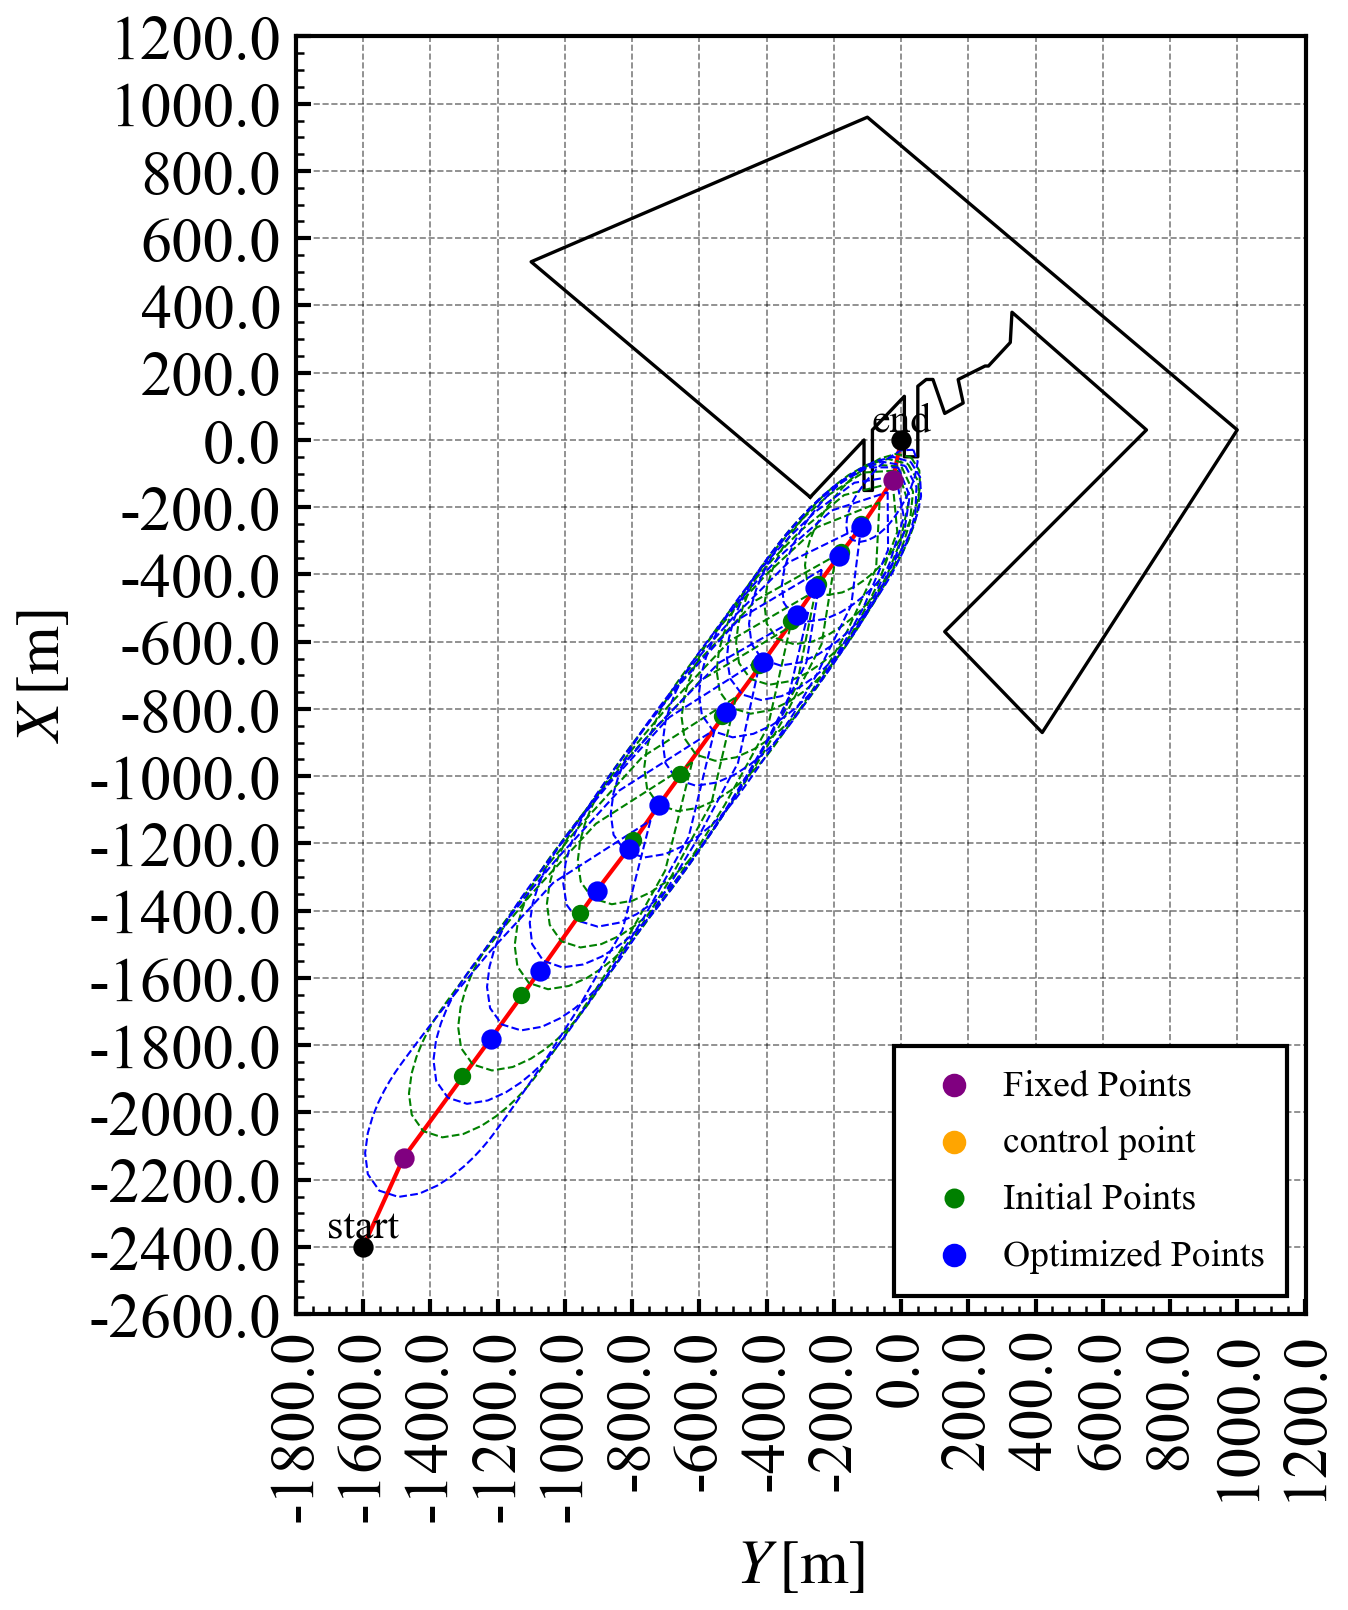
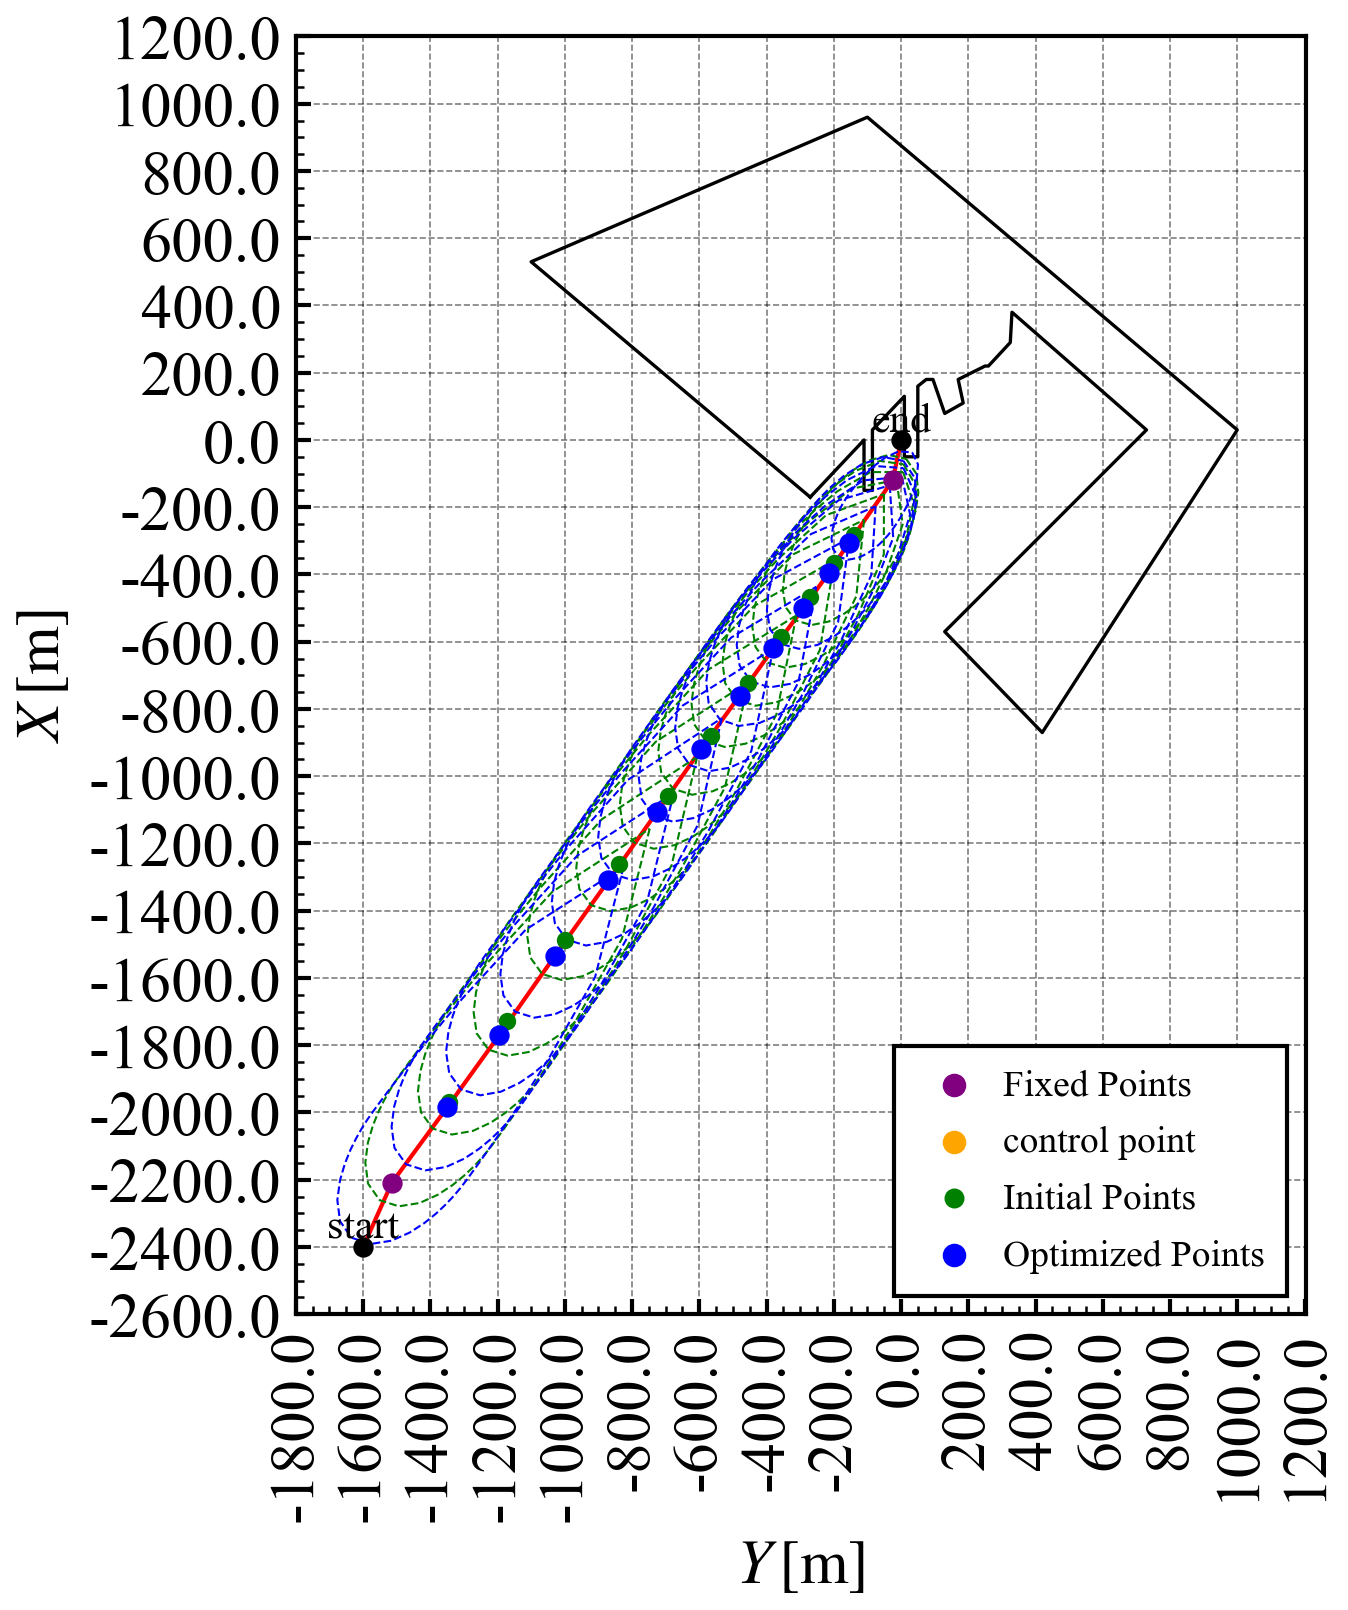
接触判定変えたらいいじ

Changed region(s): [[0.2493, 0.2795, 0.6855, 0.7764]]

diff --git a/program/path_planning/CMA-ES.py b/program/path_planning/CMA-ES.py
@@ -21,6 +21,7 @@ from matplotlib import gridspec
 from matplotlib.offsetbox import OffsetImage, AnnotationBbox
 import pandas as pd
 from scipy import ndimage
+from scipy.spatial import ConvexHull
 from tqdm.auto import tqdm
 
 # --- external project modules ---
@@ -63,12 +64,13 @@ class ParamMode(StrEnum):
 class InitPathAlgo(StrEnum):
     ASTAR = "astar"
     BEZIER = "bezier"
+    STRAIGHT = "straight"
 
 
 class Settings:
     def __init__(self):
         # port
-        self.port_number: int = 2
+        self.port_number: int = 10
          # 0: Osaka_1A, 1: Tokyo_2C, 2: Yokkaichi_2B, 3: Else_1, 4: Osaka_1B
          # 5: Else_2, 6: Kashima, 7: Aomori, 8: Hachinohe, 9: Shimizu
          # 10: Tomakomai, 11: KIX
@@ -229,22 +231,28 @@ class CostCalculator:
     def ShipDomain(self, parent_pt, current_pt, child_pt):
         sm = self.sample_map
         SD = self.SD
-        enclosing = self.enclosing
-        obstacles = enclosing.obstacle_polygons[0]
 
         parent_pt  = np.asarray(parent_pt, dtype=float)
         current_pt = np.asarray(current_pt, dtype=float)
         child_pt   = np.asarray(child_pt, dtype=float)
 
+        theta_list = np.arange(np.deg2rad(0), np.deg2rad(360), np.deg2rad(10))
         psi = cal_psi(parent_pt, current_pt, child_pt)
         speed = cal_speed(current_pt, sm)
-        for obstacle in obstacles:
-            v = obstacle - current_pt
-            dist = np.linalg.norm(v)
-            theta = np.pi/2 - np.arctan2(v[1], v[0])
-            theta = (theta + np.pi) % (2*np.pi) - np.pi # nomalize
-            rel = (theta - psi + np.pi) % (2*np.pi) - np.pi
-            D = SD.distance(speed, rel)
+        r_list = []
+        for theta_i in theta_list:
+            r_list.append(SD.distance(speed, theta_i))
+
+        r = np.asarray(r_list, dtype=float)
+        domain_xy = np.column_stack([
+            current_pt[0] + r * np.cos(theta_list + psi),
+            current_pt[1] + r * np.sin(theta_list + psi),
+        ])
+        domain_xy.tolist()
+        mask = in_hull_2d(points=sm.obstacle,hull_points=domain_xy)
+        inner_obstacle = sm.obstacle[mask]
+
+        return len(inner_obstacle)
 
 
     def elem(self, parent_pt: np.ndarray, current_pt: np.ndarray, child_pt: np.ndarray) -> float:
@@ -496,6 +504,30 @@ def calculate_turning_points(initial_coords: np.ndarray, sample_map, last_pt: np
             break
     return turning_points
 
+def in_hull_2d(points, hull_points, tol=1e-12, include_boundary=True):
+    """
+    points: (M,2) 判定したい点群
+    hull_points: (N,2) 凸包を作る点群
+    tol: 数値誤差許容
+    include_boundary: 境界上を内側扱いにするか
+    """
+    points = np.asarray(points, dtype=float)
+    hull_points = np.asarray(hull_points, dtype=float)
+
+    hull = ConvexHull(hull_points)
+
+    # equations: shape (F, 3) where [a, b, c] s.t. a*x + b*y + c <= 0 is inside
+    A = hull.equations[:, :2]   # (F,2)
+    b = hull.equations[:, 2]    # (F,)
+
+    vals = A @ points.T + b[:, None]   # (F,M)
+
+    if include_boundary:
+        return np.all(vals <= tol, axis=0)
+    else:
+        return np.all(vals < -tol, axis=0)
+
+
 
 
 class PathPlanning:
@@ -692,19 +724,27 @@ class PathPlanning:
 
         # SD (checkpoint + midpoint)
         SD_cost = 0.0
-        if len(pts) >= 2:
-            SD_cost += cal.SD_checkpoint(origin, pts[0], pts[1])
-            SD_cost += cal.SD_checkpoint(pts[-2], pts[-1], last)
-        elif len(pts) == 1:
-            SD_cost += cal.SD_checkpoint(origin, pts[0], last)
-        for j in range(1, len(pts) - 1):
-            SD_cost += cal.SD_checkpoint(pts[j - 1], pts[j], pts[j + 1])
+        # if len(pts) >= 2:
+        #     SD_cost += cal.SD_checkpoint(origin, pts[0], pts[1])
+        #     SD_cost += cal.SD_checkpoint(pts[-2], pts[-1], last)
+        # elif len(pts) == 1:
+        #     SD_cost += cal.SD_checkpoint(origin, pts[0], last)
+        # for j in range(1, len(pts) - 1):
+        #     SD_cost += cal.SD_checkpoint(pts[j - 1], pts[j], pts[j + 1])
 
-        SD_cost += cal.SD_midpoint(origin, pts[0]) if len(pts) >= 1 else cal.SD_midpoint(origin, last)
-        if len(pts) >= 1:
-            SD_cost += cal.SD_midpoint(pts[-1], last)
-        for j in range(len(pts) - 1):
-            SD_cost += cal.SD_midpoint(pts[j], pts[j + 1])
+        # SD_cost += cal.SD_midpoint(origin, pts[0]) if len(pts) >= 1 else cal.SD_midpoint(origin, last)
+        # if len(pts) >= 1:
+        #     SD_cost += cal.SD_midpoint(pts[-1], last)
+        # for j in range(len(pts) - 1):
+        #     SD_cost += cal.SD_midpoint(pts[j], pts[j + 1])
+
+        SD_cost += cal.ShipDomain(origin, pts[0], pts[1])
+        SD_cost += cal.ShipDomain(origin, (origin + pts[0]) / 2, pts[0])
+        for j in range(1, len(pts) - 1):
+            SD_cost += cal.ShipDomain(pts[j - 1], pts[j], pts[j + 1])
+            SD_cost += cal.ShipDomain(pts[j], (pts[j] + pts[j + 1]) / 2, pts[j + 1])
+        SD_cost += cal.ShipDomain(pts[-2], pts[-1], last)
+        SD_cost += cal.ShipDomain(pts[-1], (pts[-1] + last)/ 2, last)
 
         # element (legacy end-side weights)
         elem_cost = 0.0
@@ -791,21 +831,30 @@ class PathPlanning:
 
             # SD
             SD_cost = 0.0
-            if len(pts) >= 2:
-                SD_cost += cal.SD_checkpoint(origin, pts[0], pts[1])
-                SD_cost += cal.SD_checkpoint(pts[-2], pts[-1], last)
-            elif len(pts) == 1:
-                SD_cost += cal.SD_checkpoint(origin, pts[0], last)
-            for j in range(1, len(pts) - 1):
-                SD_cost += cal.SD_checkpoint(pts[j - 1], pts[j], pts[j + 1])
+            # if len(pts) >= 2:
+            #     SD_cost += cal.SD_checkpoint(origin, pts[0], pts[1])
+            #     SD_cost += cal.SD_checkpoint(pts[-2], pts[-1], last)
+            # elif len(pts) == 1:
+            #     SD_cost += cal.SD_checkpoint(origin, pts[0], last)
+            # for j in range(1, len(pts) - 1):
+            #     SD_cost += cal.SD_checkpoint(pts[j - 1], pts[j], pts[j + 1])
 
-            if len(pts) >= 1:
-                SD_cost += cal.SD_midpoint(origin, pts[0])
-                SD_cost += cal.SD_midpoint(pts[-1], last)
-            else:
-                SD_cost += cal.SD_midpoint(origin, last)
-            for j in range(len(pts) - 1):
-                SD_cost += cal.SD_midpoint(pts[j], pts[j + 1])
+            # if len(pts) >= 1:
+            #     SD_cost += cal.SD_midpoint(origin, pts[0])
+            #     SD_cost += cal.SD_midpoint(pts[-1], last)
+            # else:
+            #     SD_cost += cal.SD_midpoint(origin, last)
+            # for j in range(len(pts) - 1):
+            #     SD_cost += cal.SD_midpoint(pts[j], pts[j + 1])
+
+            
+            SD_cost += cal.ShipDomain(origin, pts[0], pts[1])
+            SD_cost += cal.ShipDomain(origin, (origin + pts[0]) / 2, pts[0])
+            for j in range(1, len(pts) - 1):
+                SD_cost += cal.ShipDomain(pts[j - 1], pts[j], pts[j + 1])
+                SD_cost += cal.ShipDomain(pts[j], (pts[j] + pts[j + 1]) / 2, pts[j + 1])
+            SD_cost += cal.ShipDomain(pts[-2], pts[-1], last)
+            SD_cost += cal.ShipDomain(pts[-1], (pts[-1] + last)/ 2, last)
 
             # element
             elem_cost = 0.0
@@ -903,6 +952,14 @@ class PathPlanning:
         enclosing = pyshipsim.EnclosingPointCollisionChecker()
         enclosing.reset(world_polys)
         self.enclosing = enclosing
+        #
+        start = np.asarray(port["start"], dtype=float)
+        end   = np.asarray(port["end"], dtype=float)
+        pts = df_world[["x [m]", "y [m]"]].to_numpy()
+        xmin, xmax = sorted([start[0], end[0]])
+        ymin, ymax = sorted([start[1], end[1]])
+        mask = (xmin <= pts[:, 0]) & (pts[:, 0] <= xmax) & (ymin <= pts[:, 1]) & (pts[:, 1] <= ymax)
+        obstacle_pts = pts[mask].copy() 
         print(f"Successfully imported data from csv\n")
 
         SD = ShipDomain_proposal()
@@ -920,6 +977,8 @@ class PathPlanning:
         sample_map.b_ave = df["b_ave"].values[0]
         sample_map.a_SD = df["a_SD"].values[0]
         sample_map.b_SD = df["b_SD"].values[0]
+
+        sample_map.obstacle = obstacle_pts
 
         self.sample_map = sample_map
 
@@ -1047,12 +1106,19 @@ class PathPlanning:
 
         elif self.ps.init_path_algo == InitPathAlgo.BEZIER:
             port = self.port
-            if (files := glob.glob(f"{DATA}/buoy/{port['name']}.csv")):
+            if (files := glob.glob(f"{RAW_DATAS}/buoy/{port['buoy']}/*.xlsx")):
+                buoy=Buoy()
+                buoy.input_excel(files, f"{RAW_DATAS}/tmp/coordinates_of_port/_{port['name']}.csv")
+                sm.buoy_xy = [buoy.X, buoy.Y]
+                self.buoy_dir = True
+            elif (files := glob.glob(f"{DATA}/buoy/{port['name']}.csv")):
                 buoy = Buoy()
                 buoy.input_csv(files[0], f"{RAW_DATAS}/tmp/coordinates_of_port/_{port['name']}.csv")
                 sm.buoy_xy = [buoy.X, buoy.Y]
+                self.buoy_dir = True
             else:
                 sm.buoy_xy = None
+                self.buoy_dir = False
 
             pts, sm.isect_xy = Bezier.stack(sm)
             pts = Bezier.sort(pts,
@@ -1062,7 +1128,9 @@ class PathPlanning:
             initial_coord_xy, sm.psi = Bezier.bezier(pts, num=400)
             caltime = time.time() - time_start_init_path
             print(f"Bezier algorithm took {caltime:.3f} [s]\n")
-
+        elif self.ps.init_path_algo == InitPathAlgo.STRAIGHT:
+            self.WP_xy = Bezier.calcurate_intersection(sm)
+            
         else:
             # manual configuration (not used here)
             pass
@@ -1200,6 +1268,7 @@ class PathPlanning:
         dictionary_of_port = {
             0: {
                 "name": "Osaka_port1A",
+                "buoy": "1-堺",
                 "start": [-1400.0, -800.0],
                 "end": [0.0, -10.0],
                 "psi_start": 40,
@@ -1210,6 +1279,7 @@ class PathPlanning:
             },
             1: {
                 "name": "Tokyo_port2C",
+                "buoy": "千葉",
                 "start": [-2400.0, -1600.0],
                 "end": [0.0, 0.0],
                 "psi_start": 25,
@@ -1220,6 +1290,7 @@ class PathPlanning:
             },
             2: {
                 "name": "Yokkaichi_port2B",
+                "buoy": "四日市",
                 "start": [2000.0, 2000.0],
                 "end": [100.0, 80.0], # 300, 80
                 "psi_start": -125,
@@ -1230,6 +1301,7 @@ class PathPlanning:
             },
             3: {
                 "name": "Else_port1",
+                "buoy": "2-坂出",
                 "start": [2500.0, 0.0],
                 "end": [0.0, 0.0], # [450.0, 20.0]
                 "psi_start": -150,
@@ -1240,26 +1312,29 @@ class PathPlanning:
             },
             4: {
                 "name": "Osaka_port1B",
+                "buoy": "1-堺",
                 "start": [-3000.0, -1080.0],
-                "end": [0.0, -10.0], # [-480.0, -80.0]
+                "end": [-480.0, -80.0], # [-480.0, -80.0]
                 "psi_start": -5,
-                "psi_end": -10, # 45
+                "psi_end": 45, # 45
                 "berth_type": 2,
                 "ver_range": [-3200, 500],
                 "hor_range": [-1600, 500],
             },
             5: {
                 "name": "Else_port2",
-                "start": [-1000.0, 650.0],
+                "buoy": "5-函館",
+                "start": [-1800.0, 0.0],
                 "end": [0.0, 0.0],
-                "psi_start": -45,
-                "psi_end": -15,
+                "psi_start": 45,
+                "psi_end": -45,
                 "berth_type": 2,
                 "ver_range": [-1900, 300],
                 "hor_range": [-1000, 1200],
             },
             6: {
                 "name": "Kashima",
+                "buoy": "4-鹿島",
                 "start": [1750.0, 1900.0],
                 "end": [250.0, -150.0],
                 "psi_start": -120,
@@ -1270,6 +1345,7 @@ class PathPlanning:
             },
             7: {
                 "name": "Aomori",
+                "buoy": "6-青森",
                 "start": [350, 3400.0],
                 "end": [0, 100],
                 "psi_start": -115,
@@ -1280,6 +1356,7 @@ class PathPlanning:
             },
             8: {
                 "name": "Hachinohe",
+                "buoy:": "3-八戸",
                 "start": [1350, 2500.0],
                 "end": [100, 250],
                 "psi_start": -110,
@@ -1290,6 +1367,7 @@ class PathPlanning:
             },
             9: {
                 "name": "Shimizu",
+                "buoy": "8-清水",
                 "start": [1400, -2000],
                 "end": [150, 100],
                 "psi_start": 100,
@@ -1300,6 +1378,7 @@ class PathPlanning:
             },
             10: {
                 "name": "Tomakomai",
+                "buoy": "11-苫小牧",
                 "start": [-1300, 1500],
                 "end": [-200.0, -80.0],
                 "psi_start": -70,
@@ -1310,6 +1389,7 @@ class PathPlanning:
             },
             11: {
                 "name": "KIX",
+                "buoy": "大阪港",
                 "start": [-2500, 800],
                 "end": [-300, 250],
                 "psi_start": -10,
@@ -1396,11 +1476,8 @@ class PathPlanning:
             )
 
         # buoy
-        df_buoy = glob.glob(f"{DATA}/buoy/{port['name']}.csv")
-        if len(df_buoy) != 0:
-            buoy = Buoy()
-            buoy.input_csv(df_buoy[0], f"{RAW_DATAS}/tmp/coordinates_of_port/_{port['name']}.csv")
-            ax1.scatter(buoy.Y, buoy.X,
+        if self.buoy_dir:
+            ax1.scatter(sm.buoy_xy[1], sm.buoy_xy[0],
                         color='orange', s=20, zorder=4)
         legend_buoy = plt.Line2D([0], [0], marker="o", color="w",
                                     markerfacecolor="orange", markersize=pointsize, label="Buoy Point")
